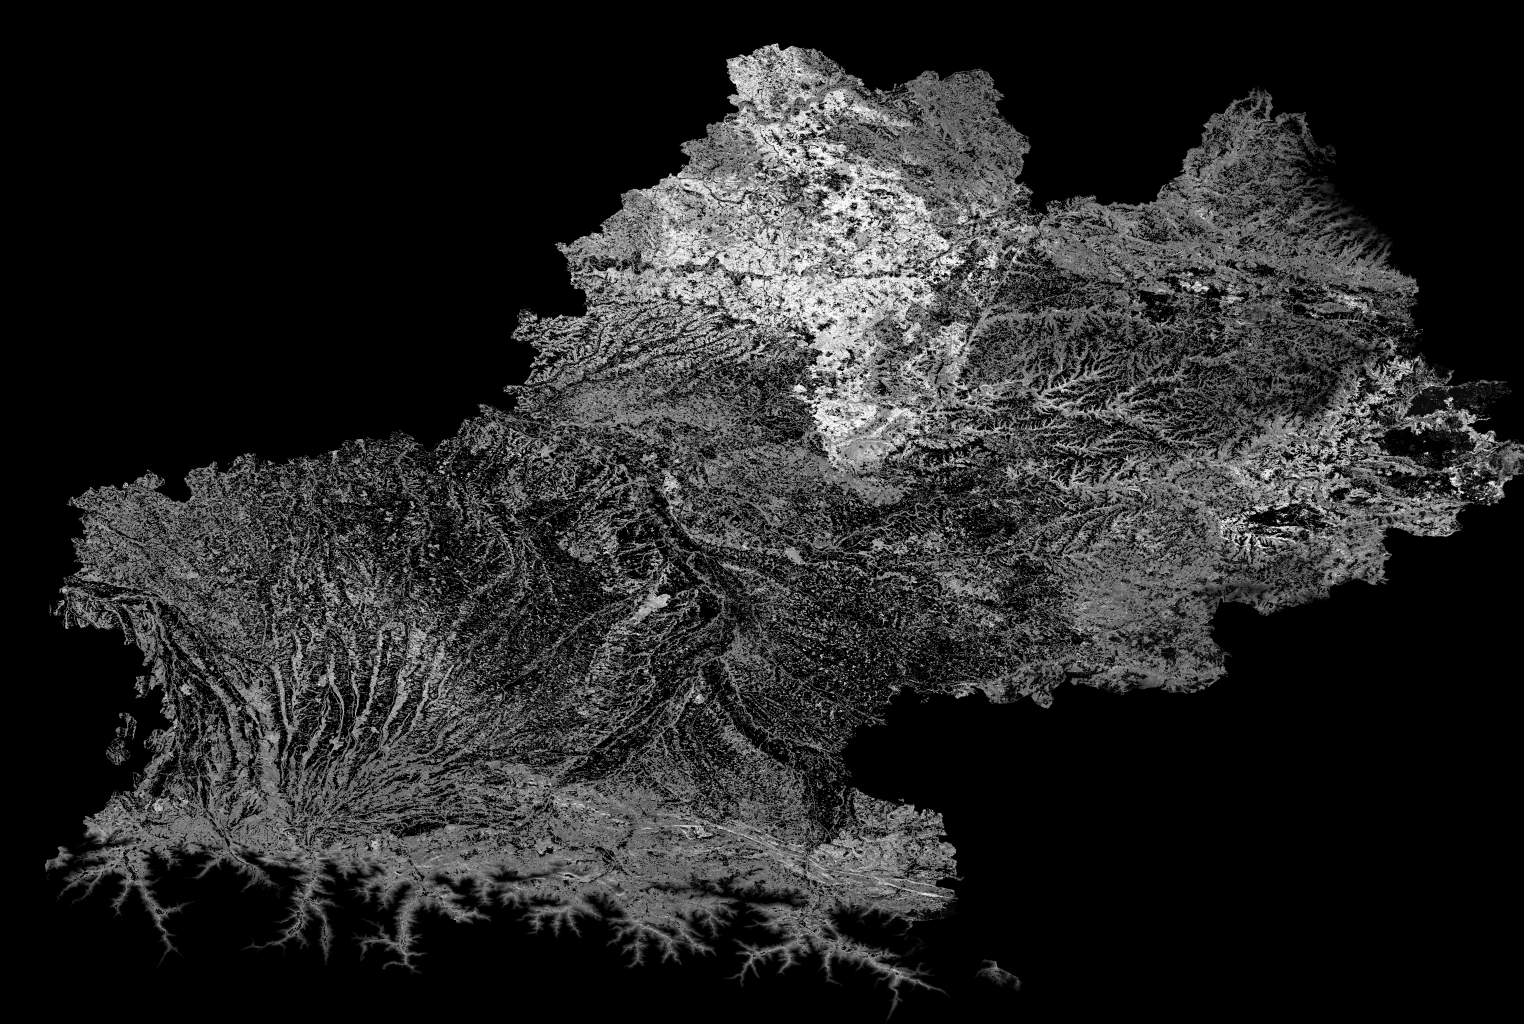
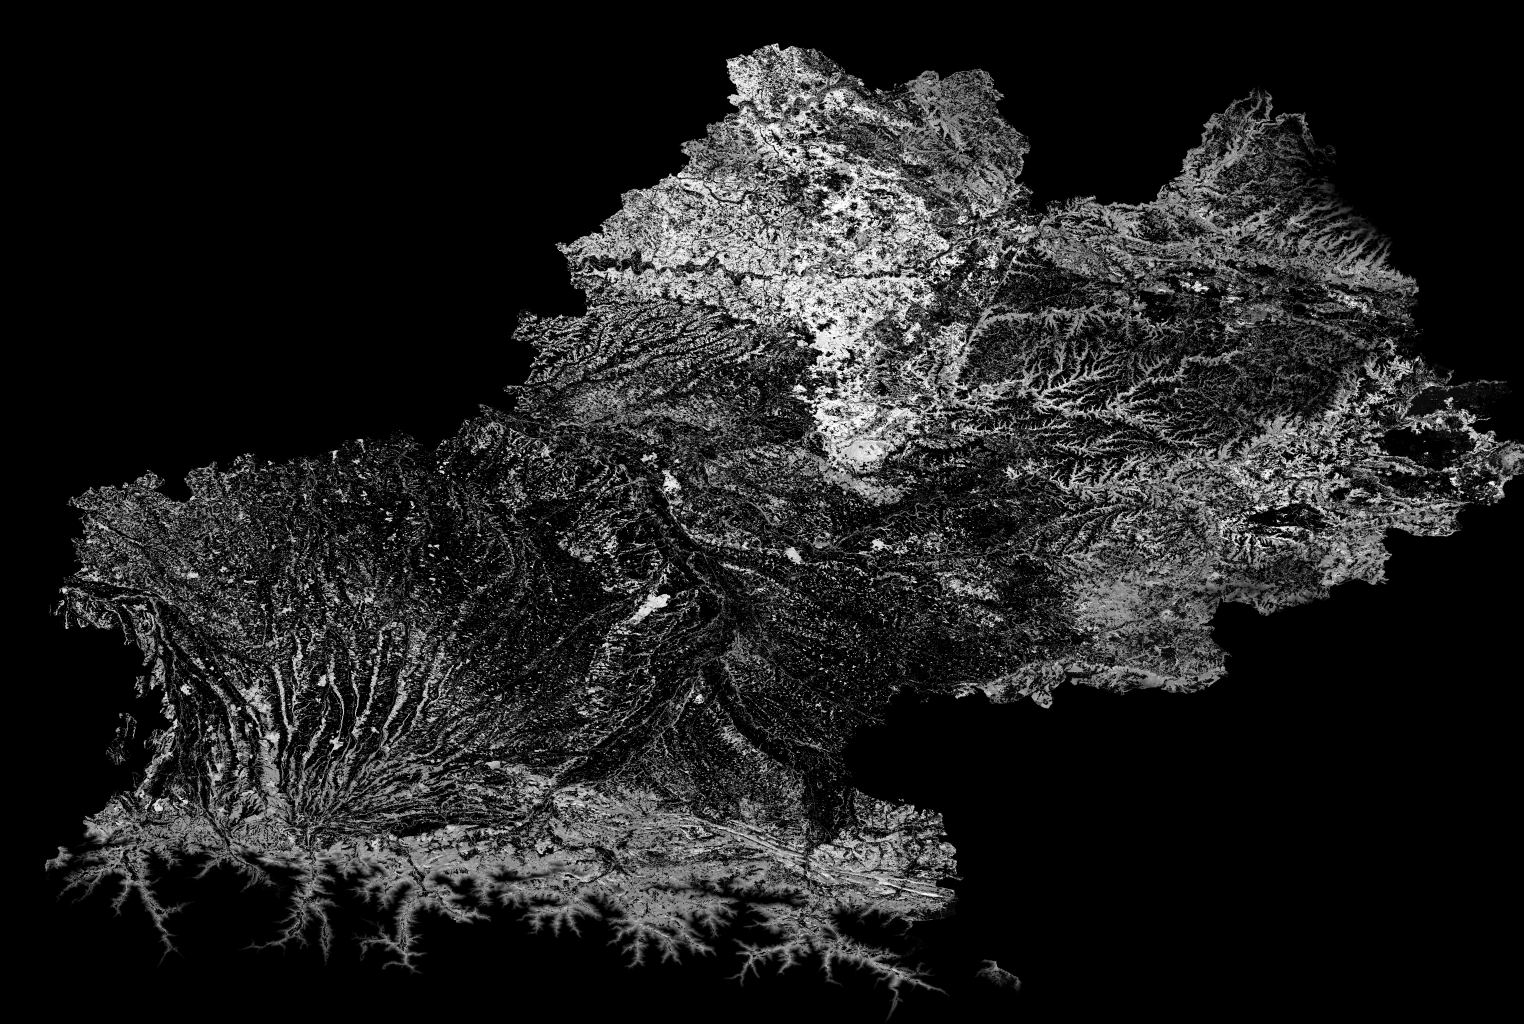
Coins : audit des règles (bâti, eau, cultures, prairies, coupes ; gel, humidité entretenue, épisodes sur 5 jours ; cèpe bronzé intermédiaire)

Changed region(s): [[0.0308, 0.0312, 1.0, 0.9375], [0.2467, 0.9062, 0.2776, 0.9375]]

diff --git a/src/lib/coins.ts b/src/lib/coins.ts
@@ -370,7 +370,14 @@ export async function describeSpot(res: CoinsResult, sp: Species, lat: number, l
   const reasons: string[] = []
   if (habitat === 0 && group === 'aucun') reasons.push('Pas de bois ni de prairie favorable cartographiés ici.')
   else if (habitat < 0.3) reasons.push(`Milieu peu favorable à l'espèce (${GROUP_LABELS[group] ?? group}).`)
-  if (since === 255) reasons.push('Aucune grosse pluie (20 mm en 3 jours) depuis plusieurs semaines : trop sec.')
+  if (since === 255) {
+    // Pas d'épisode (15 mm en 5 jours) : distinguer le vrai sec des pluies faibles et étalées.
+    reasons.push(
+      rain15 >= 15
+        ? `Pluies faibles et étalées (${rain15} mm en 15 jours) : de quoi lancer au mieux une petite poussée.`
+        : 'Pas de vraie pluie depuis plusieurs semaines : trop sec.',
+    )
+  }
   else if (since <= 6) {
     const ago = `il y a ${since} jour${since > 1 ? 's' : ''}`
     // La pousse du moment peut venir de pluies plus anciennes : ne pas annoncer « pas encore démarré »

diff --git a/scripts/build-pousse.py b/scripts/build-pousse.py
@@ -325,10 +325,11 @@ SPECIES = {
     # la 1re version les faisait sortir dès le 4e jour à 20 °C), de juin à septembre.
     "cepe_ete": {"seuil": 25, "dd": (100, 150, 260), "temp": [(10, 0), (14, 0.6), (17, 1), (26, 1), (30, 0.5)],
                  "saison": [0, 0, 0, 0, 0.4, 0.9, 1, 1, 0.8, 0.3, 0.05, 0]},
-    # Assoupli le 24/10/2026 : la tête de nègre donne encore un peu en octobre, voire début novembre les
-    # automnes doux, dans les coteaux (1re version : éteinte sous 10 °C et octobre réduit de moitié).
-    "cepe_bronze": {"seuil": 25, "dd": (100, 150, 260), "temp": [(8, 0), (11, 0.5), (15, 1), (25, 1), (29, 0.5)],
-                    "saison": [0, 0, 0, 0, 0.1, 0.4, 0.8, 1, 1, 0.9, 0.35, 0.05]},
+    # Réglage intermédiaire (revu le 25/10/2026 après vérification) : espèce thermophile d'été et de début d'automne,
+    # encore un peu en octobre les automnes doux, rare en novembre. L'assouplissement du 24/10 (octobre 0,9,
+    # novembre 0,35, à l'aise dès 15 °C) allait trop loin.
+    "cepe_bronze": {"seuil": 25, "dd": (100, 150, 260), "temp": [(9, 0), (12, 0.5), (16, 1), (25, 1), (29, 0.5)],
+                    "saison": [0, 0, 0, 0, 0.1, 0.4, 0.8, 1, 1, 0.7, 0.15, 0]},
     # Cèpes d'automne : il leur faut de la fraîcheur (nuits qui rafraîchissent), septembre à novembre.
     # Cèpes d'automne : premiers 10-12 jours après la grosse pluie à ~12 °C, pic vers 14 j (fenêtre avancée le 25/10/2026).
     "cepe_bordeaux": {"seuil": 30, "dd": (70, 115, 230), "temp": [(4, 0), (7, 0.5), (10, 1), (17, 1), (21, 0.5), (25, 0.15)],
@@ -371,36 +372,75 @@ def season_factor(sp, d):
     return s[i] * (1 - frac) + s[(i + 1) % 12] * frac
 
 
+# Révision du 25/10/2026 (scénarios testés) :
+# - une vraie gelée (minimum <= -2 °C) détruit la poussée en cours : les épisodes antérieurs sont annulés pour les
+#   cèpes et la coulemelle, réduits de 60 % pour la girolle et la trompette (plus résistantes) ;
+# - girolle et trompette ont un second déclencheur, l'humidité ENTRETENUE : un sol resté bien humide en moyenne sur
+#   14 jours fait produire même sans grosse pluie (avant : 12 mm par semaine en juillet laissaient retomber la girolle
+#   de 0,75 à 0,09) ;
+# - degrés-jours à partir de 2 °C pour la trompette (la plus tolérante au froid ; avant, plus rien en décembre).
+WEAK_RATIO = 0.6  # en dessous de 60 % du seuil d'une espèce, pas de poussée
+FROST_RESET = -2.0
+FROST_TOLERANT = {"girolle": 0.4, "trompette": 0.4}  # part des poussées gardée après une gelée
+# Humidité moyenne sur 21 jours : début, plein, plafond. 21 jours et seuil de 20 mm : une seule grosse pluie ne suffit
+# pas (la 1re version, sur 14 jours dès 15 mm, faisait sortir la trompette à J+6 au lieu de 2-3 semaines).
+SUSTAINED = {"girolle": (20, 35, 0.85), "trompette": (20, 35, 0.85)}
+SUSTAINED_DAYS = 21
+DD_BASE = {"trompette": 2.0}
+
+
 def pousse(series, dates, k_target, sp):
     """Score 0-1 pour le jour dates[k_target] à partir des séries (jours, lignes, colonnes)."""
     P, Tm, Tn = series
     cfg = SPECIES[sp]
     start_dd, peak_dd, end_dd = cfg["dd"]
+    base = DD_BASE.get(sp, 4.0)
     k0 = max(0, k_target - HISTORY_DAYS)
     W = np.full(P.shape[1:], 20.0, np.float32)
-    dev = np.zeros(P.shape[1:], np.float32)
+    w_hist = []
     for k in range(k0, k_target + 1):
         # Évaporation de la litière sous couvert (mm/jour) : ~1,1 à 10 °C, ~1,4 à 12 °C, ~2,5 à 20 °C, ~3,2 à 25 °C.
-        # (1re version : 2,3 à 20 °C, trop faible l'été — le sol restait humide trop longtemps.)
         et = np.maximum(0.3, 0.14 * Tm[k] - 0.3)
         W = np.clip(W + P[k] - et, 0, W_MAX)
-    # Épisodes de pluie : chaque jour e où la pluie sur 3 jours dépasse le seuil ouvre une fenêtre ; on garde
-    # la meilleure fenêtre en cours (degrés-jours depuis e, pondérés par la force de l'épisode).
-    for e in range(k0 + 2, k_target + 1):
-        p3 = P[e - 2 : e + 1].sum(axis=0)
-        # Le jour déclencheur doit lui-même être pluvieux (≥ 5 mm) : sinon un seul orage, vu dans la fenêtre de
-        # 3 jours, déclenchait aussi les 2 jours suivants et étirait la pousse de 2 jours (corrigé le 25/10/2026).
-        strong = (p3 >= cfg["seuil"]) & (P[e] >= 5)
+        w_hist.append(W)
+    # Dernière gelée (par case) : jour le plus récent avec un minimum <= -2 °C, -1 si aucune.
+    last_frost = np.full(P.shape[1:], -1, np.int32)
+    for k in range(k0, k_target + 1):
+        last_frost = np.where(Tn[k] <= FROST_RESET, k, last_frost)
+    keep_after_frost = FROST_TOLERANT.get(sp, 0.0)
+    dev = np.zeros(P.shape[1:], np.float32)
+    # Épisodes de pluie : chaque jour e où la pluie sur 3 jours dépasse le seuil ouvre une fenêtre ; on garde la
+    # meilleure fenêtre en cours (degrés-jours depuis e, pondérés par la force de l'épisode).
+    seuil = cfg["seuil"]
+    for e in range(k0 + 4, k_target + 1):
+        # Épisode = pluie des 5 derniers jours, compté à sa FIN (jour e lui-même pluvieux, >= 2 mm) : plusieurs jours de
+        # pluie qui se suivent mouillent le sol comme un seul épisode. Révision du 25/10/2026 (cas de Cérizols : 25 mm
+        # en petites pluies étalées, 17,6 mm au mieux sur 3 jours, donnaient 0 % pour le cèpe de Bordeaux).
+        p5 = P[e - 4 : e + 1].sum(axis=0)
+        strong = (p5 >= WEAK_RATIO * seuil) & (P[e] >= 2)
         if not strong.any():
             continue
-        dd = np.maximum(0, Tm[e + 1 : k_target + 1] - 4).sum(axis=0) if e < k_target else np.zeros_like(p3)
+        dd = np.maximum(0, Tm[e + 1 : k_target + 1] - base).sum(axis=0) if e < k_target else np.zeros_like(p5)
         f = np.where(
             dd < start_dd,
             0,
             np.where(dd < peak_dd, (dd - start_dd) / (peak_dd - start_dd), np.clip(1 - (dd - peak_dd) / (end_dd - peak_dd), 0, 1)),
         )
-        force = 0.6 + 0.4 * np.clip(p3 / (cfg["seuil"] * 2), 0, 1)
+        # Seuil progressif : de 60 % à 100 % du seuil, petite poussée (force 0,3 à 0,6) ; au-delà, 0,6 à 1.
+        force = np.where(
+            p5 >= seuil,
+            0.6 + 0.4 * np.clip(p5 / (seuil * 2), 0, 1),
+            0.3 + 0.3 * np.clip((p5 - WEAK_RATIO * seuil) / ((1 - WEAK_RATIO) * seuil), 0, 1),
+        )
+        frost_after = last_frost >= e  # une gelée est survenue après l'épisode
+        f = np.where(frost_after, f * keep_after_frost, f)
         dev = np.maximum(dev, np.where(strong, f * force, 0))
+    if sp in SUSTAINED:
+        lo, full, cap = SUSTAINED[sp]
+        w_mean = np.mean(w_hist[-SUSTAINED_DAYS:], axis=0)
+        sustained = np.clip((w_mean - lo) / (full - lo), 0, 1) * cap
+        sustained = np.where(last_frost >= k_target - 3, sustained * keep_after_frost, sustained)
+        dev = np.maximum(dev, sustained)
     moist = curve(W, MOISTURE.get(sp, MOISTURE_DEFAULT))
     t5 = Tm[max(0, k_target - 4) : k_target + 1].mean(axis=0)
     temp = curve(t5, cfg["temp"])
@@ -412,9 +452,9 @@ def info_layer(series, dates, k_target):
     P, Tm, _ = series
     rain15 = P[max(0, k_target - 14) : k_target + 1].sum(axis=0)
     since = np.full(P.shape[1:], 255, np.float32)
-    for e in range(k_target, max(1, k_target - 60), -1):
-        p3 = P[max(0, e - 2) : e + 1].sum(axis=0)
-        hit = (p3 >= 20) & (since == 255)
+    for e in range(k_target, max(4, k_target - 60), -1):
+        p5 = P[e - 4 : e + 1].sum(axis=0)
+        hit = (p5 >= 15) & (P[e] >= 2) & (since == 255)
         since[hit] = k_target - e
     t5 = Tm[max(0, k_target - 4) : k_target + 1].mean(axis=0)
     rgb = np.stack([np.clip(np.rint(rain15 / 2), 0, 255), np.clip(since, 0, 255), np.clip(np.rint((t5 + 10) * 6), 0, 255)], axis=-1)
@@ -581,7 +621,7 @@ def main():
         "species": list(SPECIES),
         "days": out_days,
         "history": {"days": HISTORY_DAYS, "missing": missing_now, "sources": sorted({v[3] for v in archive.values()}), "stationCorrectedDays": corrected},
-        "info": {"r": "pluie des 15 derniers jours / 2 (mm)", "g": "jours depuis la dernière pluie de 20 mm en 3 jours (255 = aucune)", "b": "(température moyenne des 5 derniers jours + 10) x 6"},
+        "info": {"r": "pluie des 15 derniers jours / 2 (mm)", "g": "jours depuis le dernier épisode pluvieux (15 mm en 5 jours ; 255 = aucun)", "b": "(température moyenne des 5 derniers jours + 10) x 6"},
     }
     with open(f"{OUT_DIR}/pousse.json", "w", encoding="utf-8") as fh:
         json.dump(meta, fh, ensure_ascii=False, separators=(",", ":"))

diff --git a/scripts/build-habitat.py b/scripts/build-habitat.py
@@ -89,11 +89,14 @@ PH_FLOOR = 0.25
 # l'ombre humide des bois fermés ; la coulemelle, le milieu ouvert. Valeurs à moins de 15 % : pré ou clairière,
 # n'a de sens qu'avec un arbre hôte tout proche (exigé à part, voir TREES_NEAR_M).
 OPENNESS = {
-    "cepe_ete": [(0, 0.7), (15, 0.85), (25, 1), (75, 1), (90, 0.6), (100, 0.4)],
-    "cepe_bronze": [(0, 0.7), (15, 0.85), (25, 1), (75, 1), (90, 0.6), (100, 0.4)],
-    "cepe_bordeaux": [(0, 0.55), (15, 0.75), (40, 1), (85, 1), (95, 0.75), (100, 0.65)],
-    "cepe_pins": [(0, 0.55), (15, 0.75), (40, 1), (85, 1), (95, 0.75), (100, 0.65)],
-    "girolle": [(0, 0.35), (15, 0.6), (35, 1), (85, 1), (100, 0.8)],
+    # Pénalité des bois très denses ADOUCIE le 25/10/2026 : le satellite mesure le couvert vu d'en haut, et une
+    # vieille futaie de chênes (90-100 % de couvert) au sous-bois clair, excellent milieu à cèpes, ne se distingue
+    # pas d'un taillis serré. Constaté en forêt de Bouconne : cœur de futaie à ~45 % contre 100 % sur les allées.
+    "cepe_ete": [(0, 0.7), (15, 0.85), (25, 1), (80, 1), (92, 0.8), (100, 0.65)],
+    "cepe_bronze": [(0, 0.7), (15, 0.85), (25, 1), (80, 1), (92, 0.8), (100, 0.65)],
+    "cepe_bordeaux": [(0, 0.55), (15, 0.75), (40, 1), (88, 1), (100, 0.8)],
+    "cepe_pins": [(0, 0.55), (15, 0.75), (40, 1), (88, 1), (100, 0.8)],
+    "girolle": [(0, 0.35), (15, 0.6), (35, 1), (88, 1), (100, 0.85)],
     "trompette": [(0, 0.3), (20, 0.5), (50, 0.8), (75, 1), (100, 1)],
     "coulemelle": [(0, 1), (40, 1), (75, 0.6), (90, 0.3), (100, 0.2)],
 }
@@ -104,8 +107,15 @@ TREES_NEAR_M = 30
 # Haies, bosquets, arbres isolés absents de la BD Forêt (elle ignore tout ce qui fait moins d'un demi-hectare) :
 # essence inconnue, majoritairement des chênes et châtaigniers dans le bocage de la région.
 SMALL_WOODS = {"cepe_ete": 0.6, "cepe_bronze": 0.55, "cepe_bordeaux": 0.45, "cepe_pins": 0.1, "girolle": 0.4, "trompette": 0.3}
-# Coupe récente : parcelle forestière de la BD Forêt (2014-2019) sans arbre en 2024 dans un rayon de 30 m.
-CUT_FACTOR = 0.1
+# Milieux exclus (ESA WorldCover 2021) : bâti (50), cultures (40, le labour détruit le mycélium), eau (80) : 0 pour
+# toutes les espèces. Constaté le 25/10/2026 : jardins, rives et champs bordés de haies sortaient à 0,1-0,4.
+EXCLUDED_LANDCOVER = [40, 50, 80]
+# Prairie près d'un arbre : un cèpe peut y sortir, mais seulement sous la couronne (~20 m), et moins qu'en sous-bois.
+MEADOW_TREE_M = 20
+MEADOW_FACTOR = 0.6
+# Coupe récente : case de forêt de la BD Forêt (2014-2019) avec moins de 10 % d'arbres en 2024.
+CUT_FACTOR = 0.1  # coupe, aucun arbre restant à moins de 20 m
+CUT_EDGE_FACTOR = 0.5  # coupe, juste sous un arbre restant
 # Exposition : orientation la plus favorable et pénalité maximale à l'opposé, pondérée par la pente (aucun effet
 # sous 3°, plein effet à partir de 15°). Cèpes de chaleur : versants sud-sud-ouest ; espèces d'humidité : versants
 # nord-nord-est qui gardent la fraîcheur ; cèpe des pins et coulemelle : neutres.

diff --git a/scripts/build-habitat-fine.py b/scripts/build-habitat-fine.py
@@ -196,8 +196,13 @@ def habitat_block(forest, alt, ph, wc, mask, slope_deg, aspect_deg, tcd):
     cover = np.where(np.isnan(tcd), np.where(is_forest, 70.0, np.where(wc == 10, 50.0, 0.0)), tcd).astype(np.float32)
     near_px = max(1, round(hb.TREES_NEAR_M / RES))
     trees_near = maximum_filter(cover >= 20, size=2 * near_px + 1)
-    cut = is_forest & ~trees_near  # coupe récente : forêt de la BD Forêt sans arbre en 2024 alentour
+    # Coupe récente : case de forêt (BD Forêt) avec moins de 10 % d'arbres en 2024. 1re version : seulement sans
+    # aucun arbre à 30 m, donc presque toute coupe (bordée d'arbres) restait notée comme une lisière (constaté le
+    # 25/10/2026 : 0,17-0,19 en moyenne pour le cèpe d'été sur les parcelles déboisées).
     small_woods = ~is_forest & trees_near  # haies, bosquets, arbres isolés hors BD Forêt
+    under_px = max(1, round(hb.MEADOW_TREE_M / RES))
+    trees_under = maximum_filter(cover >= 20, size=2 * under_px + 1)
+    excluded = np.isin(wc, hb.EXCLUDED_LANDCOVER) & ~is_forest  # bâti, cultures, eau (sauf parcelle forestière)
     w_slope = np.clip((slope_deg - 3) / 12, 0, 1)
     slope_f = hb.curve(slope_deg, hb.SLOPE)
     grass = wc == 30
@@ -209,8 +214,12 @@ def habitat_block(forest, alt, ph, wc, mask, slope_deg, aspect_deg, tcd):
                 lut[GROUPS.index(g)] = wgt
             host = lut[group]
             host = np.where(small_woods, np.maximum(host, hb.SMALL_WOODS[sp]), host)
-            host = np.where(cut, host * hb.CUT_FACTOR, host)
+            cut = is_forest & (cover < 10)
+            host = np.where(cut, host * np.where(trees_under, hb.CUT_EDGE_FACTOR, hb.CUT_FACTOR), host)
             host = np.where(trees_near, host, 0)  # mycorhizien : pas d'arbre à moins de 30 m, pas de champignon
+            # Prairie (hors forêt) : seulement sous la couronne d'un arbre (~20 m), et moins qu'en sous-bois.
+            meadow = grass & ~is_forest
+            host = np.where(meadow, np.where(trees_under, host * hb.MEADOW_FACTOR, 0), host)
         else:
             # Coulemelle : prairie à moins de ~100 m d'arbres, lisières (± 40 m), forêts ouvertes, landes.
             trees = cover >= 20
@@ -231,6 +240,7 @@ def habitat_block(forest, alt, ph, wc, mask, slope_deg, aspect_deg, tcd):
         else:
             aspect_f = 1
         h = host * openness * ph_f * alt_f * slope_f * aspect_f
+        h[excluded] = 0
         h[mask == 0] = 0
         out.append(np.clip(h, 0, 1).astype(np.float32))
     return np.stack(out)

diff --git a/CLAUDE.md b/CLAUDE.md
@@ -96,6 +96,7 @@ But : montrer où chercher les **4 cèpes séparés** (d'été *B. reticulatus*,
 - **Couvert Copernicus 2024** (`scripts/fetch-tcd.py`) : service de tuiles PUBLIC de la fiche produit (`land.copernicus.eu/cdse/tcd_europe_10m_yearly`, zoom 13, ~14 m), couleurs converties EXACTEMENT en % par la palette officielle (une couleur par valeur 1-100) → `.cache-habitat/tcd2024-z13.tif` (3 914 tuiles, 4 requêtes à la fois, ~15 min). **Panne côté Copernicus** : la dalle source 2024 `E35N23` renvoie HTTP 412 (« Reingest tile … one of its files changed since ingestion ») — PAS un blocage de notre côté : repli automatique sur **2023** pour ces tuiles (692 sur 3 914).
 - **Formule du milieu** (`build-habitat.py` règles, `build-habitat-fine.py` calcul à 20 m) : **arbres hôtes à moins de 30 m** (mycorhiziens ; sinon 0) × **ouverture du bois** (courbe par espèce sur le % de couvert : cèpes de chaleur = bois clairs et parsemés, Bordeaux/pins tolèrent le dense, girolle bois clair à dense, trompette ombre dense, coulemelle milieu ouvert) × **sol** (plancher 0,25) × **altitude** × **pente** × **exposition** (sud-sud-ouest pour été/bronzé, nord-nord-est pour Bordeaux/girolle/trompette, pondérée par la pente). **Haies et bosquets** hors BD Forêt (< 0,5 ha) comptent (`SMALL_WOODS`, essence inconnue) ; **coupes récentes** (forêt BD Forêt sans arbre en 2024 à 30 m) × 0,1. Corrections : cèpe de Bordeaux plus pénalisé en plaine (c'est LE cèpe des chênaies/châtaigneraies de plaine du Sud-Ouest), cèpe des pins moins pénalisé en basse altitude, chênes verts/pubescents mieux notés pour le cèpe d'été. La carte d'ensemble à 250 m (`public/habitat/<espèce>.png`) est désormais la MOYENNE de l'habitat à 20 m (`build_coarse`, raster 7 bandes `habitat-20m-7b.tif`) : une seule source de vérité. Tuiles : 5 257, 173 Mo (branche `habitat`). Contrôle visuel : causses du Quercy très favorables au cèpe d'été (calcaire + chênes pubescents), girolle absente des causses, Bordeaux et girolle sur Pyrénées / Montagne Noire / Bouriane / Ségala.
 - **Pousse v2** (`build-pousse.py`), vérifiée sur scénarios types (orage de juillet à 20 °C : cèpe d'été pic J+9, favorable J+8-10, coulemelle J+5 ; grosse pluie d'octobre à 12 °C : Bordeaux pic J+14 dès J+11, coulemelle J+11 ; pluies régulières d'octobre : trompette J+15-32, girolle J+18-30) : jour déclencheur lui-même pluvieux (≥ 5 mm ; un orage comptait sur 3 jours), évaporation sous couvert `max(0,3 ; 0,14 T - 0,3)` mm/j (trop faible l'été avant), fenêtres de degrés-jours revues (été/bronzé 100-150-260, Bordeaux/pins 70-115-230, coulemelle 50-85-190), **besoin d'humidité propre à chaque espèce** (`MOISTURE` : girolle et trompette exigent un sol durablement humide, cèpes de chaleur tolèrent un sol qui ressèche). Le « choc thermique » n'est pas modélisé (croyance mal établie).
+- **Audit du 25/10/2026 (règles testées sur des lieux réels et des scénarios, pas sur les remarques de l'utilisateur)** — milieu : bâti, eau et cultures (WorldCover 50/80/40) sortaient à 0,1-0,4 → 0 (`EXCLUDED_LANDCOVER`) ; prairies trop favorables aux cèpes (0,42 en Bouriane) → arbre à moins de 20 m exigé et × 0,6 (`MEADOW_*`, coulemelle exclue) ; coupes rases bordées d'arbres restaient à 0,17-0,19 → case de forêt BD Forêt < 10 % de couvert = coupe, × 0,1 (× 0,5 juste sous un arbre restant), résultat 0,07 ; pénalité des bois très denses adoucie (le satellite voit le couvert d'en haut : futaie au sous-bois clair = taillis serré). Vérifiés corrects : exposition (cèpe d'été plus fort au sud, Bordeaux/girolle/trompette au nord), préférence pour les bois clairs, villes et hautes montagnes à 0. Pousse : gelée (min ≤ -2 °C) annule les poussées antérieures (cèpes, coulemelle ; girolle/trompette gardent 40 %) ; girolle et trompette ont un second déclencheur « humidité entretenue » (moyenne du réservoir sur 21 jours, 20 → 35 mm) ; trompette en degrés-jours base 2 °C ; épisode = pluie sur 5 jours comptée à sa fin, seuil progressif (60-100 % du seuil = petite poussée) ; cèpe bronzé ramené à un réglage intermédiaire (octobre 0,7, novembre 0,15, à l'aise dès 16 °C). Cas de Cérizols (25 mm étalés, 17,6 mm au mieux sur 3 jours) : le modèle avait raison (potentiel quasi nul), seul le message « aucune grosse pluie » était trompeur → « pluies faibles et étalées ». **Limite connue** : température de pousse à ~1,3 km (AROME), sans correction d'altitude dans une case de montagne (2-3 °C d'écart possible). Scripts de test (scénarios, classes de sol, relief) dans le scratchpad de la session, pas versionnés.
 - **Appli** : choix **« 🌦 Avec la météo / 🌳 Milieu seul »** (`mc-coins-view` ; milieu seul = habitat sans météo, jours masqués, palmarès « meilleurs milieux », échelle de couleurs adaptée `displayValue` car le milieu atteint 60-90 % là où la palette est calée sur le score avec météo) ; **pourcentage** dans la fiche (« Potentiel X % = milieu Y % × météo Z % »). **Clin d'œil lune** (`lib/moon.ts`, `mc-moon`, désactivé par défaut) : croyance populaire SANS preuve scientifique, affichée comme telle ; activée, × 1,15 de la nouvelle lune à 3 jours après la pleine lune, × 0,9 sinon ; sans effet en « Milieu seul » ; phase calculée (mois synodique 29,53 j depuis la nouvelle lune du 6/01/2000 18 h 14 UTC ; vérifié : pleine lune le 26/10/2026).
 
 ### 3.5 Guide des champignons (branche `evolchampi`, 06/10/2026)
